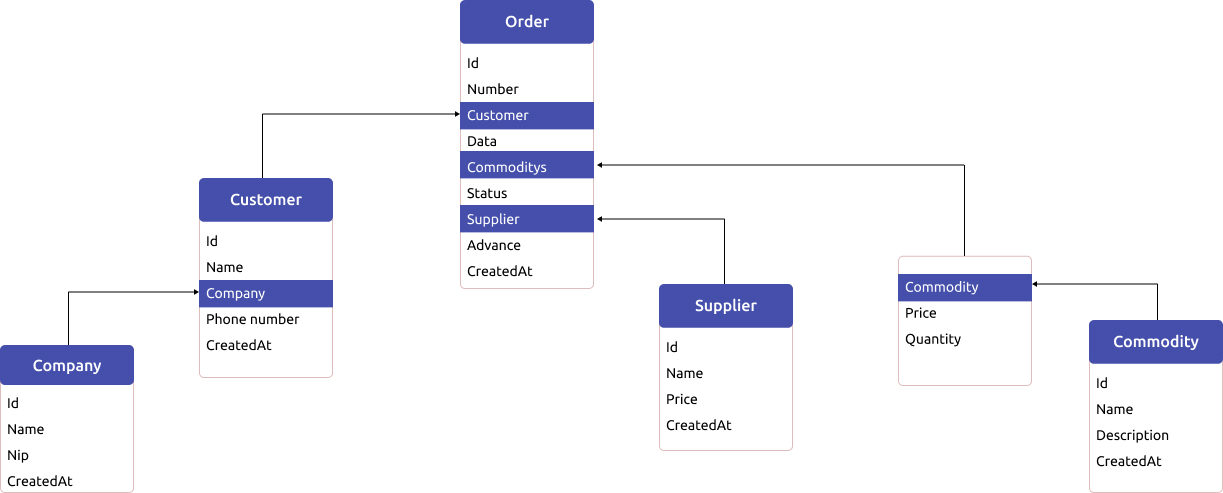
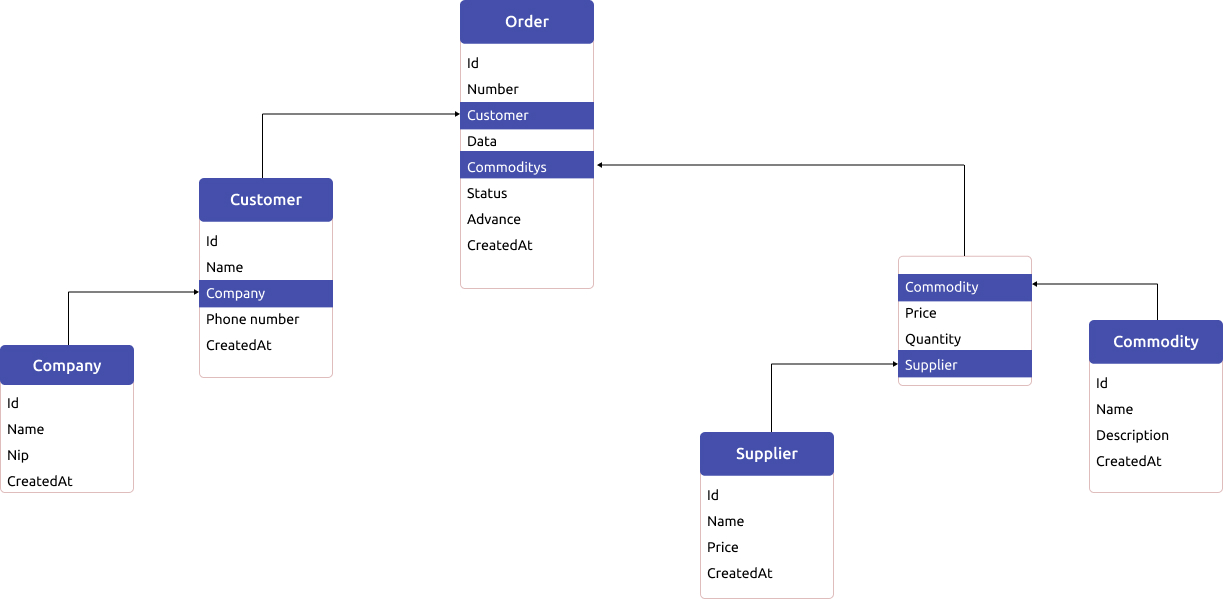
Update order structure

diff --git a/backend/src/order/order.service.ts b/backend/src/order/order.service.ts
@@ -9,6 +9,7 @@ import { Model } from 'mongoose';
 import { PostOrderDto } from './dto';
 import { orderBy } from 'lodash';
 import { ObjectId } from 'mongodb';
+import * as moment from 'moment';
 
 @Injectable()
 export class OrderService {
@@ -38,6 +39,13 @@ export class OrderService {
                 populate: {
                     path: 'commodity',
                     model: 'Commodity',
+                },
+            },
+            {
+                path: 'commodities',
+                populate: {
+                    path: 'supplier',
+                    model: 'Supplier',
                 },
             },
         ]);
@@ -120,16 +128,36 @@ export class OrderService {
     }
 
     async add(data: PostOrderDto) {
-        const order = new this.orderModel(data);
-        await order.populate({
-            path: 'commodities',
-            populate: {
-                path: 'commodity',
-                model: 'Commodity',
-            },
-        });
+        try {
+            const startOfMonth = moment()
+                .startOf('month')
+                .format('YYYY-MM-DD hh:mm');
+            const endOfMonth = moment()
+                .endOf('month')
+                .format('YYYY-MM-DD hh:mm');
 
-        return await order.save();
+            const orders = await this.orderModel.find({
+                createdAt: { $gt: startOfMonth, $lt: endOfMonth },
+            });
+
+            const currentData = moment();
+
+            const orderNumber = `${orders.length + 1}/${
+                currentData.month() + 1
+            }/${currentData.year()}`;
+
+            const orderToAdd = {
+                ...data,
+                orderNumber,
+                advance: data.advance ? data.advance : 0,
+            };
+
+            const order = new this.orderModel(orderToAdd);
+
+            return await order.save();
+        } catch (err: any) {
+            throw new Error(err);
+        }
     }
 
     async getOrdersByType(id: ObjectId, type: string): Promise<Order[]> {
@@ -158,7 +186,7 @@ export class OrderService {
             case 'supplier':
                 orders = await this.orderModel
                     .find({
-                        supplier: id,
+                        'commodities.supplier': id,
                     })
                     .sort('createdAt');
                 break;

diff --git a/backend/src/commodity/commodity.service.ts b/backend/src/commodity/commodity.service.ts
@@ -72,23 +72,40 @@ export class CommodityService {
                 throw new NotFoundException();
             }
 
-            const orders = await this.orderModel.find({
-                'commodities.commodity': id,
-            });
+            const orders = await this.orderModel
+                .find({
+                    'commodities.commodity': id,
+                })
+                .populate({
+                    path: 'commodities',
+                    populate: {
+                        path: 'commodity',
+                        model: 'Commodity',
+                    },
+                })
+                .populate({
+                    path: 'commodities',
+                    populate: {
+                        path: 'supplier',
+                        model: 'Supplier',
+                    },
+                });
 
             const suppliers = new Map<any, CommoditySupplier>();
 
             if (orders.length > 0) {
                 orders.forEach((order) => {
-                    if (!suppliers.get(order.supplier._id)) {
-                        suppliers.set(
-                            order.supplier._id,
-                            new CommoditySupplier(
-                                order.supplier._id,
-                                order.supplier.name,
-                            ),
-                        );
-                    }
+                    order.commodities.forEach((c) => {
+                        if (!suppliers.get(c.supplier._id)) {
+                            suppliers.set(
+                                c.supplier._id,
+                                new CommoditySupplier(
+                                    c.supplier._id,
+                                    c.supplier.name,
+                                ),
+                            );
+                        }
+                    });
                 });
 
                 return new CommodityDetailDto(

diff --git a/backend/src/order/order.profile.ts b/backend/src/order/order.profile.ts
@@ -1,6 +1,5 @@
 import { OrderDetailCommodity } from 'src/commodity/dto';
-import { GetOrderCommodityDto } from './dto/GetOrderCommodityDto';
-import { GetOrderDto, OrderInfoDto, OrderDto, OrderDetailDto } from './dto';
+import { OrderInfoDto, OrderDto, OrderDetailDto } from './dto';
 import {
     Mapper,
     MappingProfile,
@@ -76,30 +75,6 @@ export class OrderProfile extends AutomapperProfile {
                 forMember(
                     (d) => d.customer,
                     mapFrom((source) => source.customer.name),
-                ),
-                forMember(
-                    (d) => d.supplier,
-                    mapFrom((source) => source.supplier.name),
-                ),
-            );
-            createMap(
-                mapper,
-                Order,
-                GetOrderDto,
-                forMember(
-                    (d) => d.commodities,
-                    mapFrom((source) => {
-                        const newCommoditys = source.commodities.map((c) => {
-                            return new GetOrderCommodityDto(
-                                c.commodity._id,
-                                c.commodity.name,
-                                c.commodity.description,
-                                c.price,
-                                c.quantity,
-                            );
-                        });
-                        return newCommoditys;
-                    }),
                 ),
             );
             createMap(

diff --git a/backend/src/order/order.schema.ts b/backend/src/order/order.schema.ts
@@ -7,6 +7,33 @@ import { Schema as SchemaType } from 'mongoose';
 import { Customer } from 'src/customer/customer.schema';
 export type OrderDocument = Order & Document;
 
+export class OrderCommodity {
+    @Prop({
+        type: SchemaType.Types.ObjectId,
+        ref: 'Commodity',
+    })
+    commodity: Commodity;
+
+    @Prop({
+        type: SchemaType.Types.ObjectId,
+        ref: 'Supplier',
+        autopopulate: true,
+    })
+    supplier: Supplier;
+
+    @Prop()
+    price: number;
+
+    @Prop()
+    quantity: number;
+
+    @Prop()
+    isCustomerPayForDelivery: boolean;
+
+    @Prop()
+    status: string;
+}
+
 @Schema({ timestamps: true })
 export class Order {
     @AutoMap()
@@ -26,15 +53,7 @@ export class Order {
     customer: Customer;
 
     @AutoMap()
-    @Prop({
-        type: SchemaType.Types.ObjectId,
-        ref: 'Supplier',
-        autopopulate: true,
-    })
-    supplier: Supplier;
-
-    @AutoMap()
-    @Prop([Object])
+    @Prop([OrderCommodity])
     commodities: OrderCommodity[];
 
     @AutoMap()
@@ -43,25 +62,11 @@ export class Order {
 
     @AutoMap()
     @Prop()
-    advance?: number;
+    advance: number;
 
     @AutoMap()
     @Prop()
     createdAt: Date;
-}
-
-export class OrderCommodity {
-    @Prop({
-        type: SchemaType.Types.ObjectId,
-        ref: 'Commodity',
-    })
-    commodity: Commodity;
-
-    @Prop()
-    price: number;
-
-    @Prop()
-    quantity: number;
 }
 
 export const OrderSchema = SchemaFactory.createForClass(Order);

diff --git a/backend/src/order/dto/PostOrderDto.ts b/backend/src/order/dto/PostOrderDto.ts
@@ -1,26 +1,31 @@
+import { Type } from 'class-transformer';
 import {
     ArrayMinSize,
     IsArray,
-    IsMongoId,
     IsNotEmpty,
     IsNumber,
+    ValidateIf,
+    ValidateNested,
 } from 'class-validator';
 import { Schema } from 'mongoose';
 import { PostOrderCommodityDto } from './PostOrderCommodityDto';
 
 export class PostOrderDto {
-    @IsNotEmpty()
-    @IsMongoId()
+    @IsNotEmpty({ message: 'Pole klient jest wymagane' })
     customer: Schema.Types.ObjectId;
 
-    @IsNotEmpty()
-    @IsMongoId()
-    supplier: Schema.Types.ObjectId;
-
     @IsArray()
-    @ArrayMinSize(1)
-    commodities: PostOrderCommodityDto[];
+    @ValidateNested()
+    @ArrayMinSize(1, { message: 'Musisz podać przynajmniej jeden towar' })
+    @Type(() => PostOrderCommodityDto)
+    commodities: Array<PostOrderCommodityDto>;
 
-    @IsNumber()
+    @ValidateIf((o) => o.advance !== undefined)
+    @IsNumber({}, { message: 'Pole zaliszki jest nieotpowiedniego formatu' })
     advance?: number;
+
+    @IsNotEmpty({ message: 'Pole status jest wymagane' })
+    status: string;
+
+    orderNumber: string;
 }

diff --git a/backend/src/order/dto/PostOrderCommodityDto.ts b/backend/src/order/dto/PostOrderCommodityDto.ts
@@ -1,7 +1,26 @@
+import { IsBoolean, IsNotEmpty, IsNumber, IsString } from 'class-validator';
 import { Schema } from 'mongoose';
 
 export class PostOrderCommodityDto {
+    @IsNotEmpty()
     commodity: Schema.Types.ObjectId;
+
+    @IsNotEmpty()
+    @IsNumber()
     price: number;
+
+    @IsNotEmpty()
+    @IsNumber()
     quantity: number;
+
+    @IsNotEmpty()
+    supplier: Schema.Types.ObjectId;
+
+    @IsNotEmpty()
+    @IsBoolean()
+    isCustomerPayForDelivery: boolean;
+
+    @IsNotEmpty()
+    @IsString()
+    status: string;
 }

diff --git a/backend/src/order/dto/OrderDetailDto.ts b/backend/src/order/dto/OrderDetailDto.ts
@@ -2,7 +2,6 @@ import { AutoMap } from '@automapper/classes';
 import { Schema } from 'mongoose';
 import { OrderDetailCommodity } from 'src/commodity/dto';
 import { OrderDetailCustomer } from 'src/customer/dto';
-import { OrderDetailSupplier } from 'src/supplier/dto';
 
 export class OrderDetailDto {
     id: Schema.Types.ObjectId;
@@ -18,9 +17,6 @@ export class OrderDetailDto {
 
     @AutoMap()
     status: string;
-
-    @AutoMap()
-    supplier: OrderDetailSupplier;
 
     commodities: Array<OrderDetailCommodity>;
 

diff --git a/backend/src/order/order.controller.ts b/backend/src/order/order.controller.ts
@@ -1,6 +1,5 @@
 import { ObjectId } from 'mongodb';
 import { ParseObjectIdPipe } from '../pipes/parseObjectId.pipe';
-import { GetOrderDto } from './dto/GetOrderGto';
 import { Order } from './order.schema';
 import { PostOrderDto } from './dto/PostOrderDto';
 import { OrderService } from './order.service';

diff --git a/backend/src/order/dto/index.ts b/backend/src/order/dto/index.ts
@@ -1,7 +1,5 @@
 export * from './PostOrderDto';
 export * from './PostOrderCommodityDto';
-export * from './GetOrderGto';
-export * from './GetOrderCommodityDto';
 export * from './OrderInfoDto';
 export * from './OrderDto';
 export * from './OrderDetailDto';

diff --git a/backend/src/commodity/dto/OrderDetailCommodity.ts b/backend/src/commodity/dto/OrderDetailCommodity.ts
@@ -20,4 +20,7 @@ export class OrderDetailCommodity {
     description: string;
     price: number;
     quantity: number;
+    supplierName: string;
+    isCustomerPayForDelivery: boolean;
+    status: string;
 }
